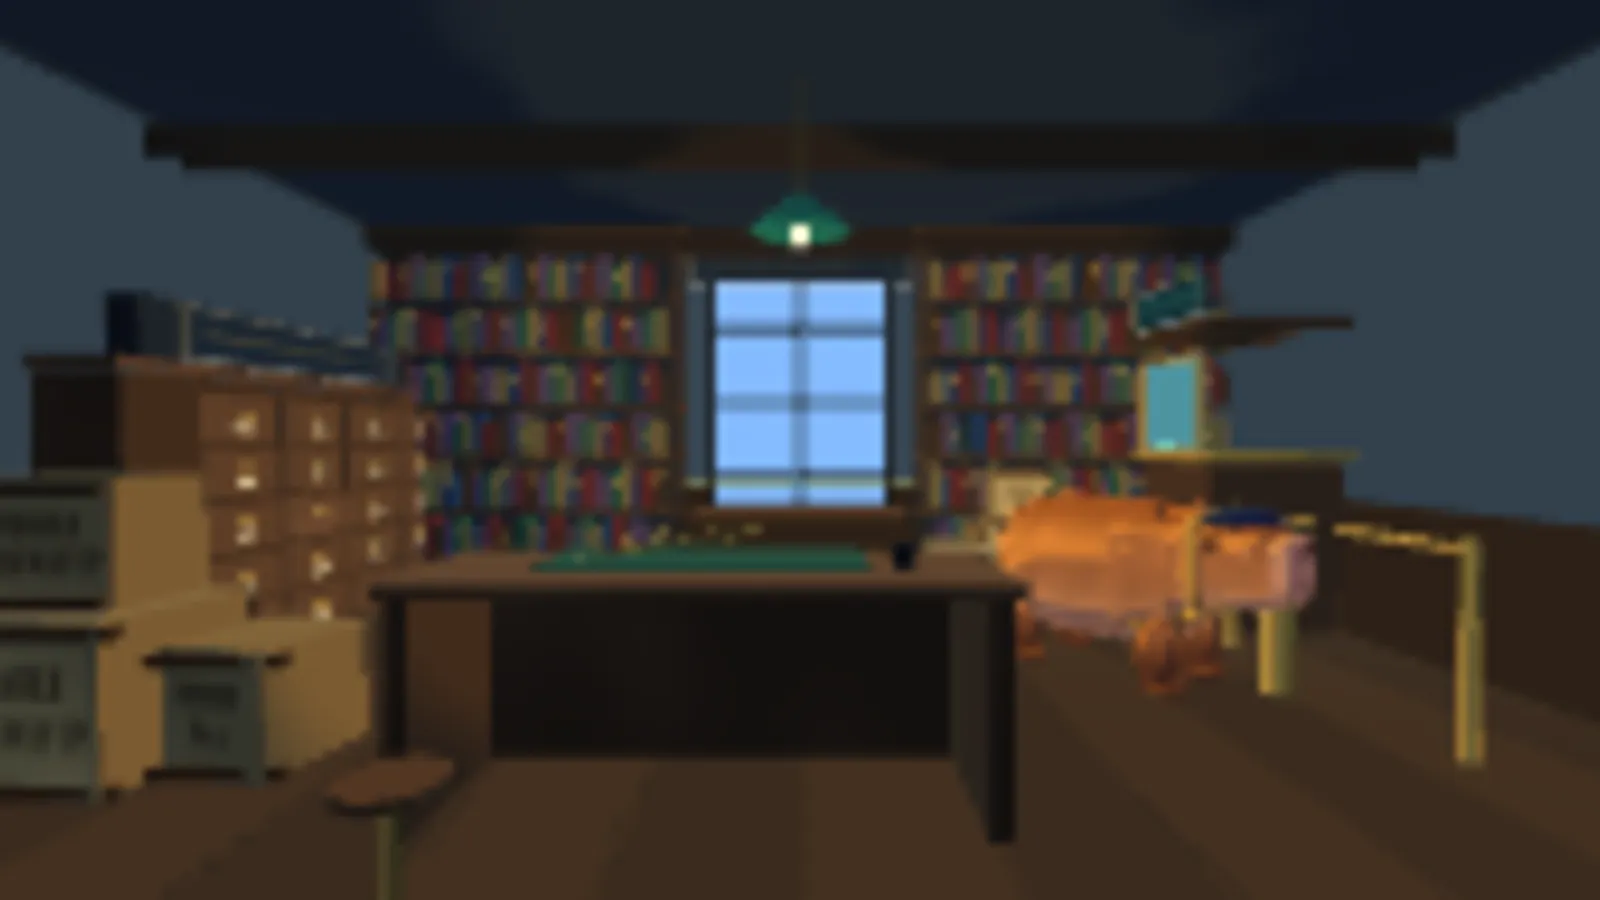
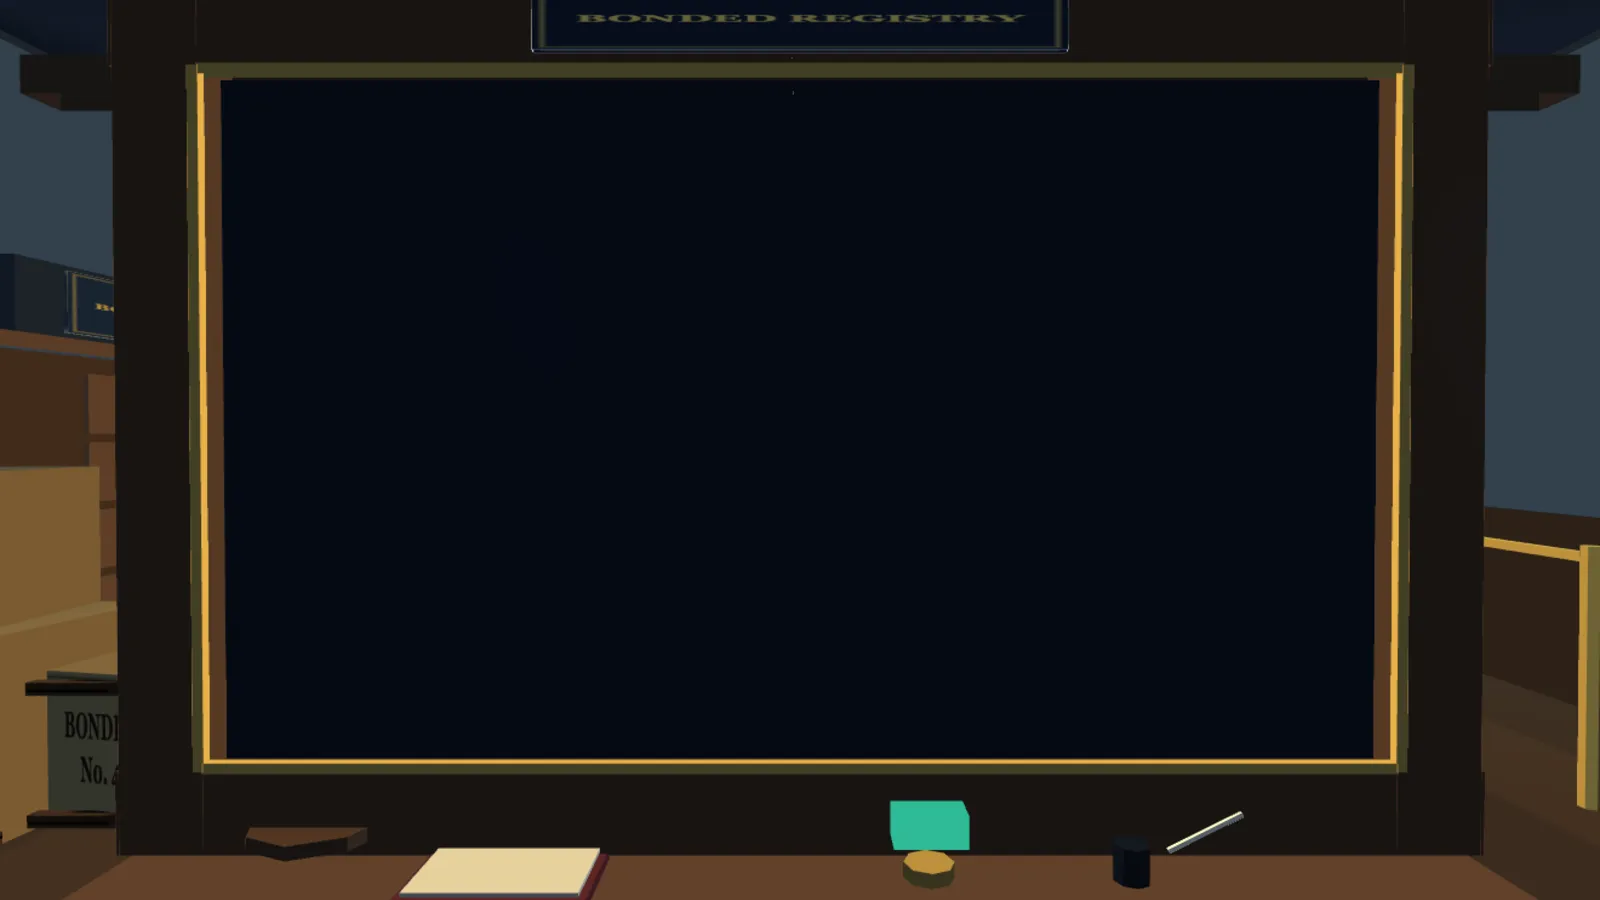
INT-02 stage 2c: social notice board and clearance case board heroes, recaptured stills

diff --git a/client/src/features/interiors/rooms/clearance.js b/client/src/features/interiors/rooms/clearance.js
@@ -2,7 +2,8 @@ import { Color3, Color4 } from '@babylonjs/core/Maths/math.color.js'
 import { TransformNode } from '@babylonjs/core/Meshes/transformNode.js'
 import { Batch, rgb } from '../../hub/scenes/shared/geometry.js'
 import { glowMaterial, toonMaterial } from '../../hub/scenes/wharf/toon.js'
-import { hemi, labelAtlas, lamp, resident, shell } from './kit.js'
+import { clearanceHero } from './heroes.js'
+import { hemi, heroBoard, labelAtlas, lamp, resident, shell } from './kit.js'
 
 // thames river police clearance tower records room, 1880: cool lamplight and police blue
 const C = {
@@ -177,12 +178,44 @@ function gear(batch, r, teeth, color) {
   batch.box({ c: [0, 0, 0], s: [0.14, 0.14, 0.09], color })
 }
 
+// the case board: a cork-toned records face in a walnut frame, with folders and a brass lamp on the ledge
+function caseBoard(b, g) {
+  const { z, bottom, top } = heroBoard(b, clearanceHero, {
+    face: '#cdbf98',
+    faceGain: 1.4,
+    frame: C.walnut,
+    brass: C.brass,
+  })
+  const ly = bottom - 0.27
+  ;[-1.2, -0.95, -0.7].forEach((x, i) =>
+    b.box({
+      c: [x, ly + 0.03 + i * 0.002, z - 0.2],
+      s: [0.22, 0.04 + i * 0.01, 0.3],
+      color: rgb(['#d8cfa8', '#c9b98a', TABS[1]][i], 0.95),
+      yaw: 0.1 * i,
+    }),
+  )
+  // brass nameplate on the ledge and a banker's lamp
+  b.box({ c: [0.3, ly + 0.03, z - 0.2], s: [0.5, 0.05, 0.12], color: rgb(C.brass, 1) })
+  b.cylinder({ c: [1.1, ly + 0.05, z - 0.2], r: 0.07, h: 0.04, seg: 8, color: rgb(C.brass, 0.9) })
+  g.box({ c: [1.1, ly + 0.17, z - 0.2], s: [0.2, 0.09, 0.1], color: rgb('#cfe0ff', 1) })
+  // cool lamps over the top rail
+  for (const x of [-1, 1]) {
+    b.bar([x * 1.3, top + 0.24, z], [x * 1.3, top + 0.4, z - 0.12], 0.025, {
+      color: rgb(C.brass, 1),
+    })
+    g.box({ c: [x * 1.3, top + 0.46, z - 0.14], s: [0.16, 0.12, 0.16], color: rgb('#cfe0ff', 1.5) })
+  }
+}
+
 export function buildClearanceRoom({ scene, budget, reduced }) {
   scene.clearColor = new Color4(0.03, 0.04, 0.07, 1)
   const fill = hemi(scene, { intensity: 0.55, diffuse: [0.6, 0.7, 0.95], ground: [0.2, 0.18, 0.2] })
   const cool = lamp(scene, 'cool', [0, 2.9, 1.8], [0.7, 0.8, 1], 1.5, 12)
   const lanternLight = lamp(scene, 'lantern', [3.6, 2.4, 0.2], [0.35, 0.55, 1], 1.4, 7)
   const warm = lamp(scene, 'warm', [-1, 1.7, 1.4], [1, 0.85, 0.55], 0.7, 6)
+  // cool lamplight on the front of the board
+  const boardLamp = lamp(scene, 'board-cool', [0, 2.4, -2.6], [0.65, 0.78, 1], 1.1, 5)
 
   const solid = new Batch()
   const glow = new Batch()
@@ -199,12 +232,20 @@ export function buildClearanceRoom({ scene, budget, reduced }) {
     [['ADMIN'], '#e8e0c4', '#1c1408'],
     [['AUDIT'], '#e8e0c4', '#1c1408'],
     [['CONFIDENTIAL'], '#e8e0c4', '#b2262a'],
+    [['RECORDS'], '#1b2a4a', '#e8e0c4'],
   ])
   cabinets(solid)
   cage(solid, labels, atlas)
   keyBoard(solid, labels, atlas)
   desks(solid, glow, labels, atlas)
   dutyDesk(solid)
+  caseBoard(solid, glow)
+  labels.box({
+    c: [0, clearanceHero.corners[0][1] + 0.12, clearanceHero.corners[0][2] - 0.09],
+    s: [1.5, 0.17, 0.02],
+    uv: atlas.uv(10),
+    color: rgb('#ffffff', 1.1),
+  })
   // police blue notice strip above the cabinets
   glow.box({ c: [0, 1.15, 4.46], s: [9, 0.025, 0.03], color: rgb('#6a96e8', 0.9) })
 
@@ -264,7 +305,7 @@ export function buildClearanceRoom({ scene, budget, reduced }) {
 
   const animate = budget.animate && !reduced()
   return {
-    camera: { pos: [0, 1.55, -3.6], target: [0, 1.5, 3], fov: 1.1, drift: [0.22, 0.06, 44] },
+    camera: { ...clearanceHero.camera, drift: [0, 0, 44] },
     update(dt, time) {
       if (!animate) return
       policeman.update(dt)
@@ -280,7 +321,7 @@ export function buildClearanceRoom({ scene, budget, reduced }) {
     dispose() {
       policeman.dispose()
       for (const m of meshes) m.dispose()
-      for (const l of [fill, cool, lanternLight, warm]) l.dispose()
+      for (const l of [fill, cool, lanternLight, warm, boardLamp]) l.dispose()
       for (const m of [material, glowMat, labelMat, lanternMat]) m.dispose()
       atlas.texture.dispose()
     },

diff --git a/client/src/features/interiors/rooms/social.js b/client/src/features/interiors/rooms/social.js
@@ -2,7 +2,8 @@ import { Color4 } from '@babylonjs/core/Maths/math.color.js'
 import { Batch, rgb } from '../../hub/scenes/shared/geometry.js'
 import { glowMaterial, toonMaterial } from '../../hub/scenes/wharf/toon.js'
 import { createCapybaraStatic, furStyles } from '../../hub/scenes/shared/capybara.js'
-import { hemi, labelAtlas, lamp, resident, shell, toon } from './kit.js'
+import { socialHero } from './heroes.js'
+import { hemi, heroBoard, labelAtlas, lamp, resident, shell, toon } from './kit.js'
 
 // the capybara & crown snug, 1880: firelight on cream plaster, timber and sky green upholstery
 const C = {
@@ -171,12 +172,39 @@ function lanterns(b, g) {
   }
 }
 
+// the landlord's notice board: a parchment face in a walnut frame, with a message book, candles and a pint on the ledge
+function noticeBoard(b, g) {
+  const { z, bottom, top } = heroBoard(b, socialHero, {
+    face: C.cream,
+    faceGain: 1.4,
+    frame: C.walnut,
+    brass: C.brass,
+  })
+  const ly = bottom - 0.27
+  b.box({ c: [-0.8, ly + 0.02, z - 0.2], s: [0.5, 0.03, 0.3], color: rgb('#5a2a24', 1) })
+  b.box({ c: [-0.8, ly + 0.045, z - 0.2], s: [0.46, 0.012, 0.26], color: rgb(C.cream, 0.7) })
+  pint(b, 0.9, ly, z - 0.2)
+  for (const x of [-1.3, 1.3]) {
+    b.cylinder({ c: [x, ly + 0.1, z - 0.2], r: 0.035, h: 0.2, seg: 6, color: rgb(C.cream, 1) })
+    g.box({ c: [x, ly + 0.24, z - 0.2], s: [0.03, 0.07, 0.03], color: rgb('#ffcf70', 1.7) })
+  }
+  // lantern brackets over the top rail
+  for (const x of [-1, 1]) {
+    b.bar([x * 1.3, top + 0.24, z], [x * 1.3, top + 0.4, z - 0.12], 0.025, {
+      color: rgb(C.brass, 1),
+    })
+    g.box({ c: [x * 1.3, top + 0.46, z - 0.14], s: [0.16, 0.12, 0.16], color: rgb('#ffb347', 1.5) })
+  }
+}
+
 export function buildSnugRoom({ scene, budget, reduced }) {
   scene.clearColor = new Color4(0.05, 0.035, 0.03, 1)
   const fill = hemi(scene, { intensity: 0.38, diffuse: [1, 0.86, 0.7], ground: [0.32, 0.22, 0.16] })
   const fire = lamp(scene, 'fire', [0.6, 0.7, 3.2], [1, 0.55, 0.22], 2.0, 11)
   const hang = lamp(scene, 'hang', [0, 3.0, 1.6], [1, 0.8, 0.5], 1.0, 9)
   const tap = lamp(scene, 'tap', [-2.4, 1.6, 0.0], [0.75, 1, 0.85], 0.5, 6)
+  // firelight on the front of the board
+  const glowLamp = lamp(scene, 'board-fire', [0, 2.2, -2.6], [1, 0.62, 0.3], 1.1, 5)
 
   const solid = new Batch()
   const glow = new Batch()
@@ -188,6 +216,7 @@ export function buildSnugRoom({ scene, budget, reduced }) {
     [
       [['Loose lips...', 'Ale 2d   Porter 1d'], '#1f2a26', '#f1ecd8'],
       [['PRIVATE'], '#2a1c12', '#e6c26a'],
+      [['THE SNUG'], '#2a1c12', '#e6c26a'],
     ],
     [2048, 1024],
   )
@@ -198,6 +227,13 @@ export function buildSnugRoom({ scene, budget, reduced }) {
   booth(solid, 2.9)
   bar(solid, glow)
   lanterns(solid, glow)
+  noticeBoard(solid, glow)
+  labels.box({
+    c: [0, socialHero.corners[0][1] + 0.12, socialHero.corners[0][2] - 0.09],
+    s: [1.5, 0.17, 0.02],
+    uv: atlas.uv(2),
+    color: rgb('#ffffff', 1.1),
+  })
   // drinks on the tables
   pint(solid, -2.75, 0.85, 3.0)
   pint(solid, -3.05, 0.85, 2.75)
@@ -274,7 +310,7 @@ export function buildSnugRoom({ scene, budget, reduced }) {
 
   const animate = budget.animate && !reduced()
   return {
-    camera: { pos: [0, 1.55, -3.6], target: [0, 1.5, 3], fov: 1.1, drift: [0.22, 0.06, 44] },
+    camera: { ...socialHero.camera, drift: [0, 0, 44] },
     update(dt, time) {
       if (!animate) return
       publican.update(dt)
@@ -289,7 +325,7 @@ export function buildSnugRoom({ scene, budget, reduced }) {
     dispose() {
       publican.dispose()
       for (const m of meshes) m.dispose()
-      for (const l of [fill, fire, hang, tap]) l.dispose()
+      for (const l of [fill, fire, hang, tap, glowLamp]) l.dispose()
       for (const m of [material, glowMat, labelMat]) m.dispose()
       atlas.texture.dispose()
     },

diff --git a/client/src/features/interiors/__tests__/InteriorLayout.test.js b/client/src/features/interiors/__tests__/InteriorLayout.test.js
@@ -41,6 +41,11 @@ async function mountAt(path) {
             meta: { interior: 'sql-injection-arcade' },
           },
           {
+            path: '/games/social-engineering-simulator',
+            component: Game,
+            meta: { interior: 'social-engineering-simulator' },
+          },
+          {
             path: '/games/clearance-tower',
             component: Game,
             meta: { interior: 'clearance-tower' },
@@ -154,6 +159,8 @@ describe('hero surface styles', () => {
     ['phishing-post-mortem', 'paper'],
     ['cli-cyber-defender', 'slate'],
     ['sql-injection-arcade', 'slate'],
+    ['social-engineering-simulator', 'paper'],
+    ['clearance-tower', 'paper'],
   ])('%s blends with a %s surface and a click-through overlay', async (id, surface) => {
     const wrapper = await mountAt(`/games/${id}`)
     const root = wrapper.get('[data-testid="interior"]')
@@ -171,14 +178,6 @@ describe('hero surface styles', () => {
     const wrapper = await mountAt('/games/sql-injection-arcade')
     expect(wrapper.get('[data-testid="interior"]').attributes('data-stage')).toBe('3d')
     expect(wrapper.get('[data-testid="interior-desk"]').classes()).toContain('is-bleed')
-    wrapper.unmount()
-  })
-
-  it('has no surface layers for a room without a hero', async () => {
-    const wrapper = await mountAt('/games/clearance-tower')
-    expect(wrapper.get('[data-testid="interior"]').attributes('data-surface')).toBeUndefined()
-    expect(wrapper.find('.desk-surface').exists()).toBe(false)
-    expect(wrapper.find('[data-testid="desk-overlay"]').exists()).toBe(false)
     wrapper.unmount()
   })
 })

diff --git a/client/src/features/interiors/__tests__/heroes.test.js b/client/src/features/interiors/__tests__/heroes.test.js
@@ -4,10 +4,12 @@ import { rooms } from '../rooms/index.js'
 const heroRooms = Object.values(rooms).filter((r) => r.hero)
 
 describe('hero configs', () => {
-  it('seats phishing, cli and sql on a prop', () => {
+  it('seats all five games on a prop', () => {
     expect(heroRooms.map((r) => r.id).sort()).toEqual([
+      'clearance-tower',
       'cli-cyber-defender',
       'phishing-post-mortem',
+      'social-engineering-simulator',
       'sql-injection-arcade',
     ])
   })
@@ -27,9 +29,11 @@ describe('hero configs', () => {
     },
   )
 
-  it('lights dark games on slate and the paper game on paper', () => {
+  it('lights dark games on slate and light games on paper', () => {
     expect(rooms['phishing-post-mortem'].hero.surface).toBe('paper')
     expect(rooms['cli-cyber-defender'].hero.surface).toBe('slate')
     expect(rooms['sql-injection-arcade'].hero.surface).toBe('slate')
+    expect(rooms['social-engineering-simulator'].hero.surface).toBe('paper')
+    expect(rooms['clearance-tower'].hero.surface).toBe('paper')
   })
 })

diff --git a/client/src/features/interiors/rooms/index.js b/client/src/features/interiors/rooms/index.js
@@ -1,7 +1,7 @@
 // registry of interior rooms keyed by game id; each entry lazily loads its builder
 // a builder is (ctx) => { camera, update(dt, time), dispose() } where ctx has scene, engine, tier, budget, reduced
 
-import { cliHero, phishingHero, sqlHero } from './heroes.js'
+import { cliHero, clearanceHero, phishingHero, socialHero, sqlHero } from './heroes.js'
 
 export const ROOM_IDS = [
   'cli-cyber-defender',
@@ -39,12 +39,14 @@ export const rooms = {
     id: 'social-engineering-simulator',
     label: 'The snug, The Capybara & Crown',
     palette: ['#5a3a24', '#22140c', '#f0a050'],
+    hero: socialHero,
     load: () => import('./social.js').then((m) => m.buildSnugRoom),
   },
   'clearance-tower': {
     id: 'clearance-tower',
     label: 'Records room, river police tower',
     palette: ['#26344a', '#10151f', '#d8c070'],
+    hero: clearanceHero,
     load: () => import('./clearance.js').then((m) => m.buildClearanceRoom),
   },
 }

diff --git a/client/src/features/interiors/rooms/heroes.js b/client/src/features/interiors/rooms/heroes.js
@@ -37,3 +37,25 @@ export const sqlHero = {
   ],
   camera: { pos: [0, 1.55, -3.7], target: [0, 1.5, 0], fov: 1.1 },
 }
+
+export const socialHero = {
+  surface: 'paper',
+  corners: [
+    [-1.7, 2.6, -1.1],
+    [1.7, 2.6, -1.1],
+    [1.7, 0.4, -1.1],
+    [-1.7, 0.4, -1.1],
+  ],
+  camera: { pos: [0, 1.55, -3.7], target: [0, 1.5, 0], fov: 1.1 },
+}
+
+export const clearanceHero = {
+  surface: 'paper',
+  corners: [
+    [-1.7, 2.6, -1.1],
+    [1.7, 2.6, -1.1],
+    [1.7, 0.4, -1.1],
+    [-1.7, 0.4, -1.1],
+  ],
+  camera: { pos: [0, 1.55, -3.7], target: [0, 1.5, 0], fov: 1.1 },
+}

diff --git a/client/src/features/interiors/README.md b/client/src/features/interiors/README.md
@@ -54,7 +54,8 @@ Owner: Boey. Integration-sensitive: the router (five game routes are children of
 - `slate` (dark games): a dark glass surface without multiply (it would crush to black), with a faint sheen, a warm lamp glow and a vignette in the overlay.
 - All of it is static, so reduced motion needs nothing. The 2D still, no WebGL, phones under 768px and rooms without a hero keep the plain centred desk and render neither layer.
 - `bleed: true` on a hero keeps the shell paddings instead of the compact hero ones, for a game that bleeds by the shell gutter (SQL injection arcade), so the game fills the panel edge to edge.
-- Rooms with a hero: phishing (inspection board, paper), CLI (operator's console with an "INSTRUMENT ROOM" plaque, sounder and key on the ledge, slate), SQL (registry ledger console with a "BONDED REGISTRY" plaque, dim room, pendant lamp over it, slate). Social and clearance still use the centred desk. `rooms/kit.js` `heroBoard` draws the shared frame, face, rails and ledge. Regenerate the 2D stills of the three hero rooms after the camera change.
+- Rooms with a hero (all five, stage 2c): phishing (inspection board, paper), CLI (operator's console with an "INSTRUMENT ROOM" plaque, sounder and key on the ledge, slate), SQL (registry ledger console with a "BONDED REGISTRY" plaque, dim room, pendant lamp over it, slate, `bleed`), social (the landlord's notice board with a "THE SNUG" plaque, message book, candles and a pint on the ledge, firelight lamp in front, paper), clearance (records case board with a "RECORDS" plaque, folders, nameplate and a banker's lamp on the ledge, cool lamp in front, paper). Social and clearance share the light green game background, so both use `paper`; neither bleeds. `rooms/kit.js` `heroBoard` draws the shared frame, face, rails and ledge.
+- Stills: with every room on a hero camera there is no drift, so `scripts/capture-interiors.mjs` now captures in loop mode (no reduced motion; a single-frame canvas came out black) and also hides `.desk-surface` and `.desk-overlay`. The stills show the empty prop face; the 2D desk covers it.
 
 ## Budgets and tiers
 
@@ -69,11 +70,11 @@ Desktop: loop, resident NPC rig, at most 150 draw calls. Compact: loop, static N
 
 ## 2D stills
 
-`client/public/interiors/<id>.webp` (1600 x 900, about 20 to 30 KB each) is shown in 2D mode, without WebGL and after a perf drop. The stills are rendered from the project's own Babylon rooms, not imported images. Regenerate them after changing a room, with the dev client and API running and a signed-in preview account (the script reads its credentials from `.local-handover/wardrobe-preview/login.txt`, which is gitignored, and never prints them):
+`client/public/interiors/<id>.webp` (1600 x 900, about 13 to 20 KB each) is shown in 2D mode, without WebGL and after a perf drop. The stills are rendered from the project's own Babylon rooms, not imported images. Regenerate them after changing a room, with the dev client and API running and a signed-in preview account (the script reads its credentials from `.local-handover/wardrobe-preview/login.txt`, which is gitignored, and never prints them):
 
 ```bash
 node scripts/capture-interiors.mjs --base http://localhost:5176           # missing stills only
 node scripts/capture-interiors.mjs --base http://localhost:5176 --force   # overwrite all
 ```
 
-The script uses headless Chromium with the software renderer, the desktop tier, reduced motion (camera at its drift start) and the desk panel hidden, and encodes WebP through a canvas, so it needs no extra dependency. It is a developer tool and is not part of the build or the tests.
+The script uses headless Chromium with the software renderer, the desktop tier, the live loop (no drift, since every room is a hero room) and the desk panel and its surface layers hidden, and encodes WebP through a canvas, so it needs no extra dependency. It is a developer tool and is not part of the build or the tests.
